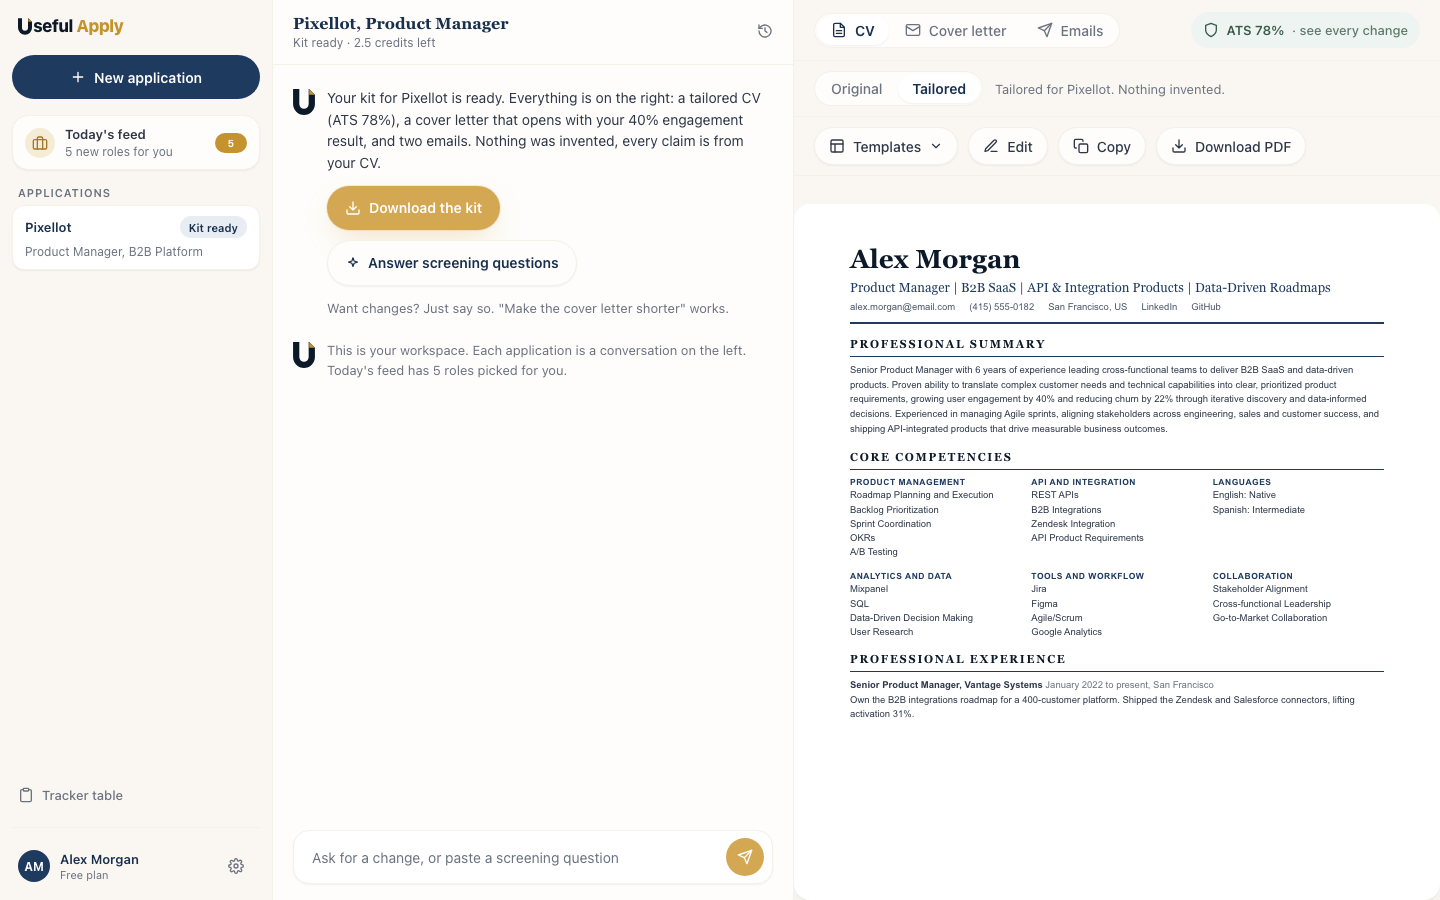
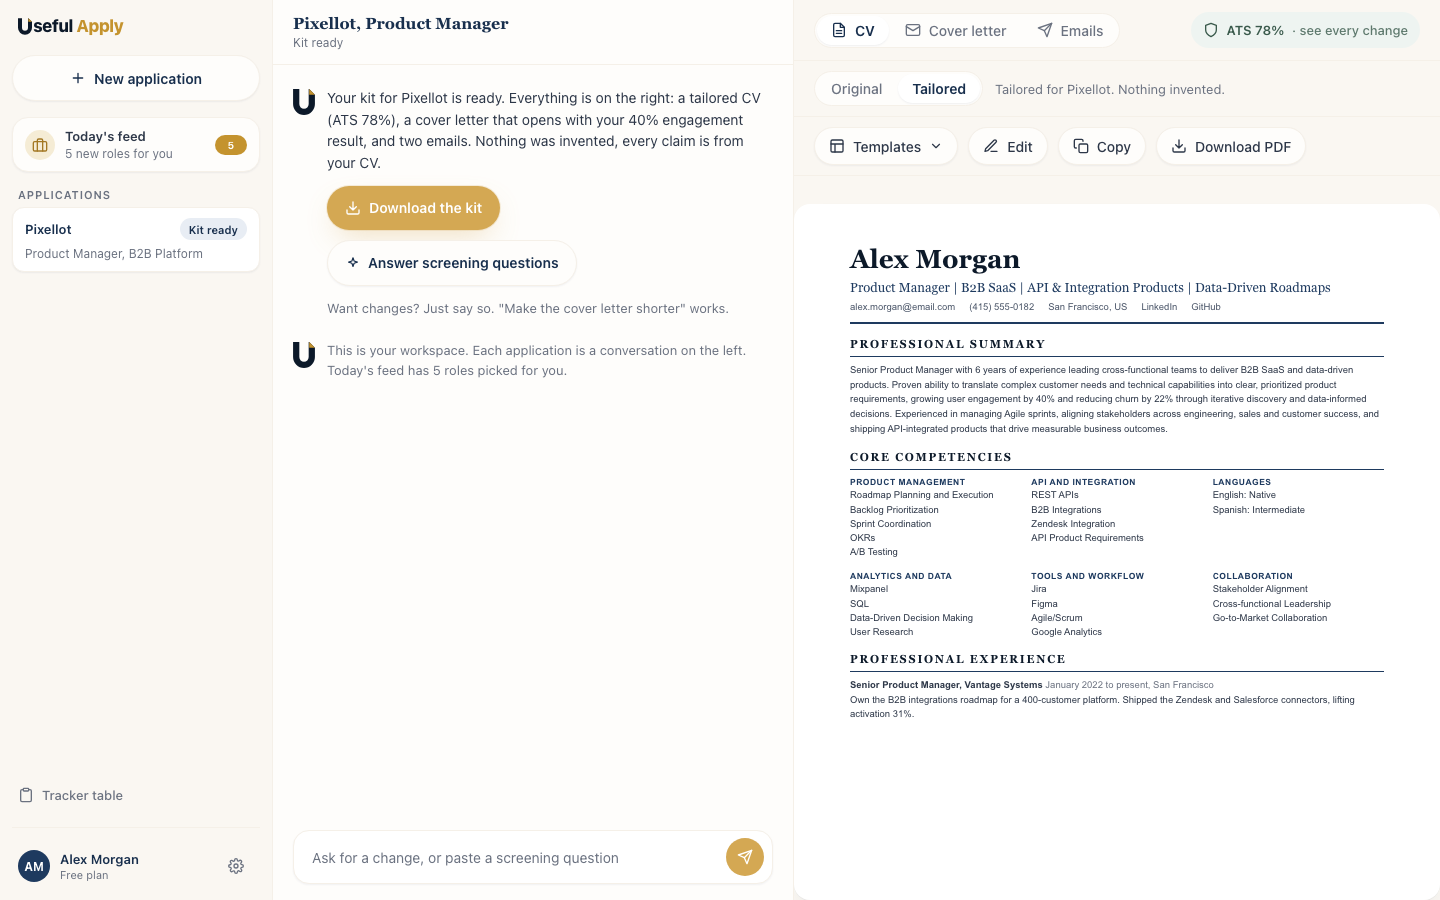
docs(ux): lock flow 2 (application kit), gold-only buttons, chat header cleanup, rendered artboards for flows 1 and 2
Claude-Session: https://claude.ai/code/session_01L4HZy3BYLSUoJxHfLjWuEt

diff --git a/docs/ux-audit-2026-08-18/redesign/flow-2-application-kit.md b/docs/ux-audit-2026-08-18/redesign/flow-2-application-kit.md
@@ -1,0 +1,51 @@
+# Flow 2: the Application Kit panels. Locked 19 August 2026.
+
+Approved by Wasim on 19 Aug 2026 after one feedback round. Inherits the shell from `flow-1-first-run.md`. Read `../design-philosophy.md` first.
+
+## Canvas and visuals
+
+- **Locked canvas (5 artboards):** https://claude.ai/code/artifact/a8fda81e-f1bb-4a4b-91b2-a2921a501841
+- **Rendered artboards (PNG, 1440x900):** `flow-2-artboards/png/` (K1 ATS view, K2 Templates, K3 Cover letter, K4 Emails, K5 Screening answers).
+- Sources: `flow-2-artboards/gen3.mjs` (imports the shared tokens and spine partials from `flow-1-artboards/`). `node gen3.mjs` regenerates the `.dc.html` files; `node ../shoot.mjs <dir> <out>` renders PNGs.
+
+## Shell decisions made here (apply to every flow, flow 1 updated to match)
+
+- **Gold is the only button fill.** It marks the single primary action on a surface (one chip in the chat, one button on a card). "New application" and "Download all" are quiet outlined buttons. Navy is for non-button emphasis only (selected stepper dot, user avatar).
+- **Chat header:** company and role in serif, status beneath ("Kit ready", "Started just now"). No history icon (the sidebar is the history) and no credit balance (it lives in the settings menu and appears inline on any chip that costs credits).
+
+## The kit, surface by surface
+
+All of it lives in the canvas column. Tab row: **CV / Cover letter / Emails**, plus **Answers** once the first screening answer exists. One outlined **Download all** at the far right of the tab row on every kit tab.
+
+### K1 · CV and the ATS view
+- Row under the tabs: **Original / Tailored** toggle, "Tailored for Pixellot.", and the **ATS 78% · see every change** chip in sage tint (`sage-50` bg, `sage-700` text, both states; a thin sage ring when active).
+- Toolbar: Templates, Edit, Copy, Download PDF.
+- Clicking the ATS chip opens **a view of its own in the canvas** (the CV is replaced, never squeezed): "← Back to CV" outlined button, title "What changed in your CV", the ATS chip at the right. Content: a score card (bar, one-line strategy, "Four changes, nothing added"), then one card per change with **Before** (struck through, muted) and **After** (sage highlight) side by side and a one-line reason, then a sage "Nothing added" line naming the gaps that stayed gaps. Back returns to the CV page.
+
+### K2 · Templates
+- Templates opens a **strip under the toolbar, all six visible**: thumbnail, name, and a short "best for" tag (Recommended, Tech & startups, DACH & NL...). Thumbnails draw instantly as placeholders and the real preview fills in behind; no blank cards. Selected = gold ring. Picking one re-renders the CV below.
+
+### K3 · Cover letter
+- Toolbar: Edit (inline), Copy, one **Download** menu (PDF / DOCX). Right side: "Updated just now · 214 words".
+- **No Regenerate button. The chat is the regenerate button.** The user asks for the change in plain language; the assistant states the cost before doing it ("Rewriting it costs 0.5 credits (you have 2.5)", one gold chip "Rewrite it · 0.5 credits"), then a named stage and a one-line confirmation. The same pattern covers the emails and the CV.
+
+### K4 · Emails
+- One tab, both emails **stacked, full width of the canvas** (cards are fluid, `box-sizing: border-box`). Each card: title, **Copy email**, SUBJECT, BODY. The follow-up carries the **Send after 5 to 7 business days** chip. The old sending-tips block is one muted line above: "Attach the CV and cover letter as PDFs when you send."
+
+### K5 · Screening answers (Wasim chose variant 3 of 3)
+- Paste a question in the chat. The chat shows one stage ("Answering from your CV · STAR shape, 38% adoption result") and a one-liner ("Your answer's on the right. Copy it from there, or tell me to make it shorter or more formal.").
+- The answer **streams into the canvas as a document** ("Screening answers · Pixellot", numbered Q&A, Copy per answer) and the **Answers tab opens itself** with a count. Toolbar: Copy all, Download. Long Q&A never clogs the conversation. Back to CV via the tab row.
+- This is the one place the canvas is allowed to switch tab on its own (rule 4), because the user just asked for exactly that.
+
+## Notes for the spec and build
+
+1. **Download all** bundles the tailored CV (PDF), cover letter (PDF + DOCX), both emails (TXT) and, when present, the answers (PDF). Per-document downloads stay in each tab's toolbar.
+2. **Edit** is the existing inline canvas editing (EditableCVCanvas) and the cover letter's inline editor. Unchanged behaviour, same place.
+3. **Cost before commitment in chat.** Any request that triggers a paid regeneration gets a cost chip first; free edits (inline typing, template switch, copy, download) never do.
+4. **ATS view data** comes from the existing ATS insights payload (score, strategy, improvements). Before/after pairs need the optimizer to return the original snippet alongside each change; if a change has no snippet, show the reason line only.
+5. **Templates strip** uses the six existing templates (`.claude/rules/cv-templates.md`); thumbnails are static SVG placeholders per template, previews render lazily behind them.
+6. **Answers document** persists per application and is included in the tracker row's kit.
+
+## Out of scope for flow 2
+
+Feed results and Edit feed (flow 3). Tracker table (flow 4). Settings pages (flow 5).

diff --git a/docs/ux-audit-2026-08-18/redesign/flow-1-first-run.md b/docs/ux-audit-2026-08-18/redesign/flow-1-first-run.md
@@ -37,7 +37,7 @@ Rules the line obeys: one primary action per step, price before commitment, name
 
 Three columns, no top header.
 
-**Sidebar (248 px).** Wordmark. "New application" (navy). "Today's feed" card with the new-roles count. APPLICATIONS: one entry per application, company, role and a status pill (Now, Kit ready, Drafted, Applied). "Tracker table" link. Bottom: profile (avatar, name, plan) with a **settings gear** to its right.
+**Sidebar (248 px).** Wordmark. "New application" (outlined, not gold: gold is reserved for the one primary action on a surface, decided in flow 2). "Today's feed" card with the new-roles count. APPLICATIONS: one entry per application, company, role and a status pill (Now, Kit ready, Drafted, Applied). "Tracker table" link. Bottom: profile (avatar, name, plan) with a **settings gear** to its right.
 
 **Settings menu** (pops up from the gear, five items, nothing more):
 1. Plan block: plan name, "2.5 of 4 credits", bar, **Upgrade to Plus** button
@@ -46,9 +46,9 @@ Three columns, no top header.
 4. Notifications
 5. Sign out
 
-The Upgrade button, the credit chip and the avatar leave the top of the app. The credit balance is also stated in the conversation header ("Kit ready · 2.5 credits left") and inline on any chip that costs credits.
+The Upgrade button, the credit chip and the avatar leave the top of the app. The credit balance lives in the settings menu and inline on any chip that costs credits.
 
-**Conversation (520 px).** Header: company and role in serif, status and balance beneath. Messages from the assistant carry the U mark; the user's messages sit right. Decisions arrive as **chips** inside the conversation with the cost on each: one primary gold chip, the rest secondary. Composer at the bottom.
+**Conversation (520 px).** Header: company and role in serif, status beneath ("Kit ready"). No history icon (the sidebar is the history) and no balance (it lives in the settings menu and on cost chips). Both removed in the flow 2 round. Messages from the assistant carry the U mark; the user's messages sit right. Decisions arrive as **chips** inside the conversation with the cost on each: one primary gold chip, the rest secondary. Composer at the bottom.
 
 **Canvas (rest).** Tabs CV / Cover letter / Emails. On the CV: Original / Tailored toggle, "ATS 78% · see every change" chip (the ATS insights modal, surfaced), toolbar Templates / Edit / Copy / Download PDF. Documents are white on the cream canvas. The canvas never blanks and never switches tab on its own; while something runs, a thin gold banner says what's happening and where the result will land.
 

diff --git a/docs/ux-audit-2026-08-18/design-philosophy.md b/docs/ux-audit-2026-08-18/design-philosophy.md
@@ -82,7 +82,7 @@ The audit folders are split into flows and brainstormed one at a time, most impa
 
 Flows 1 to 6 are the app. Flow 7 is a separate audience and can run as a parallel track.
 
-Sequencing agreed 19 Aug 2026: design every flow first (one locked doc per flow under `redesign/`), then build. Flow 1 is locked: `redesign/flow-1-first-run.md`. Its shell (guided line for the first run, chat spine with sidebar, settings menu at the bottom, no top header) is inherited by every later flow.
+Sequencing agreed 19 Aug 2026: design every flow first (one locked doc per flow under `redesign/`), then build. Flow 1 is locked: `redesign/flow-1-first-run.md`. Flow 2 is locked: `redesign/flow-2-application-kit.md` (gold is the only button fill; the chat is the regenerate button). Its shell (guided line for the first run, chat spine with sidebar, settings menu at the bottom, no top header) is inherited by every later flow.
 
 ## 7. Sources
 

diff --git a/docs/ux-audit-2026-08-18/README.md b/docs/ux-audit-2026-08-18/README.md
@@ -53,7 +53,7 @@ Read `HANDOFF.md`. It sequences the work: fix the bugs first, UX second.
 - `friction-log.md`: every friction point, rated, with what a Cursor-style fix would be
 - `bugs.md`: every defect found, with repro, evidence and confirmed cause
 - `design-philosophy.md`: the redesign thesis (Cursor / Grok Bot inspiration), the ten rules every flow must pass, and the flow-by-flow order. Read before any redesign work
-- `redesign/`: one locked design doc per flow plus artboard sources. `flow-1-first-run.md` is the shell every later flow inherits
+- `redesign/`: one locked design doc per flow plus artboard sources. `flow-1-first-run.md` is the shell every later flow inherits, `flow-2-application-kit.md` the kit panels; each has a `png/` folder with the rendered artboards
 - `job-description.md`: the job ad used for every generation run
 
 ## Coverage
